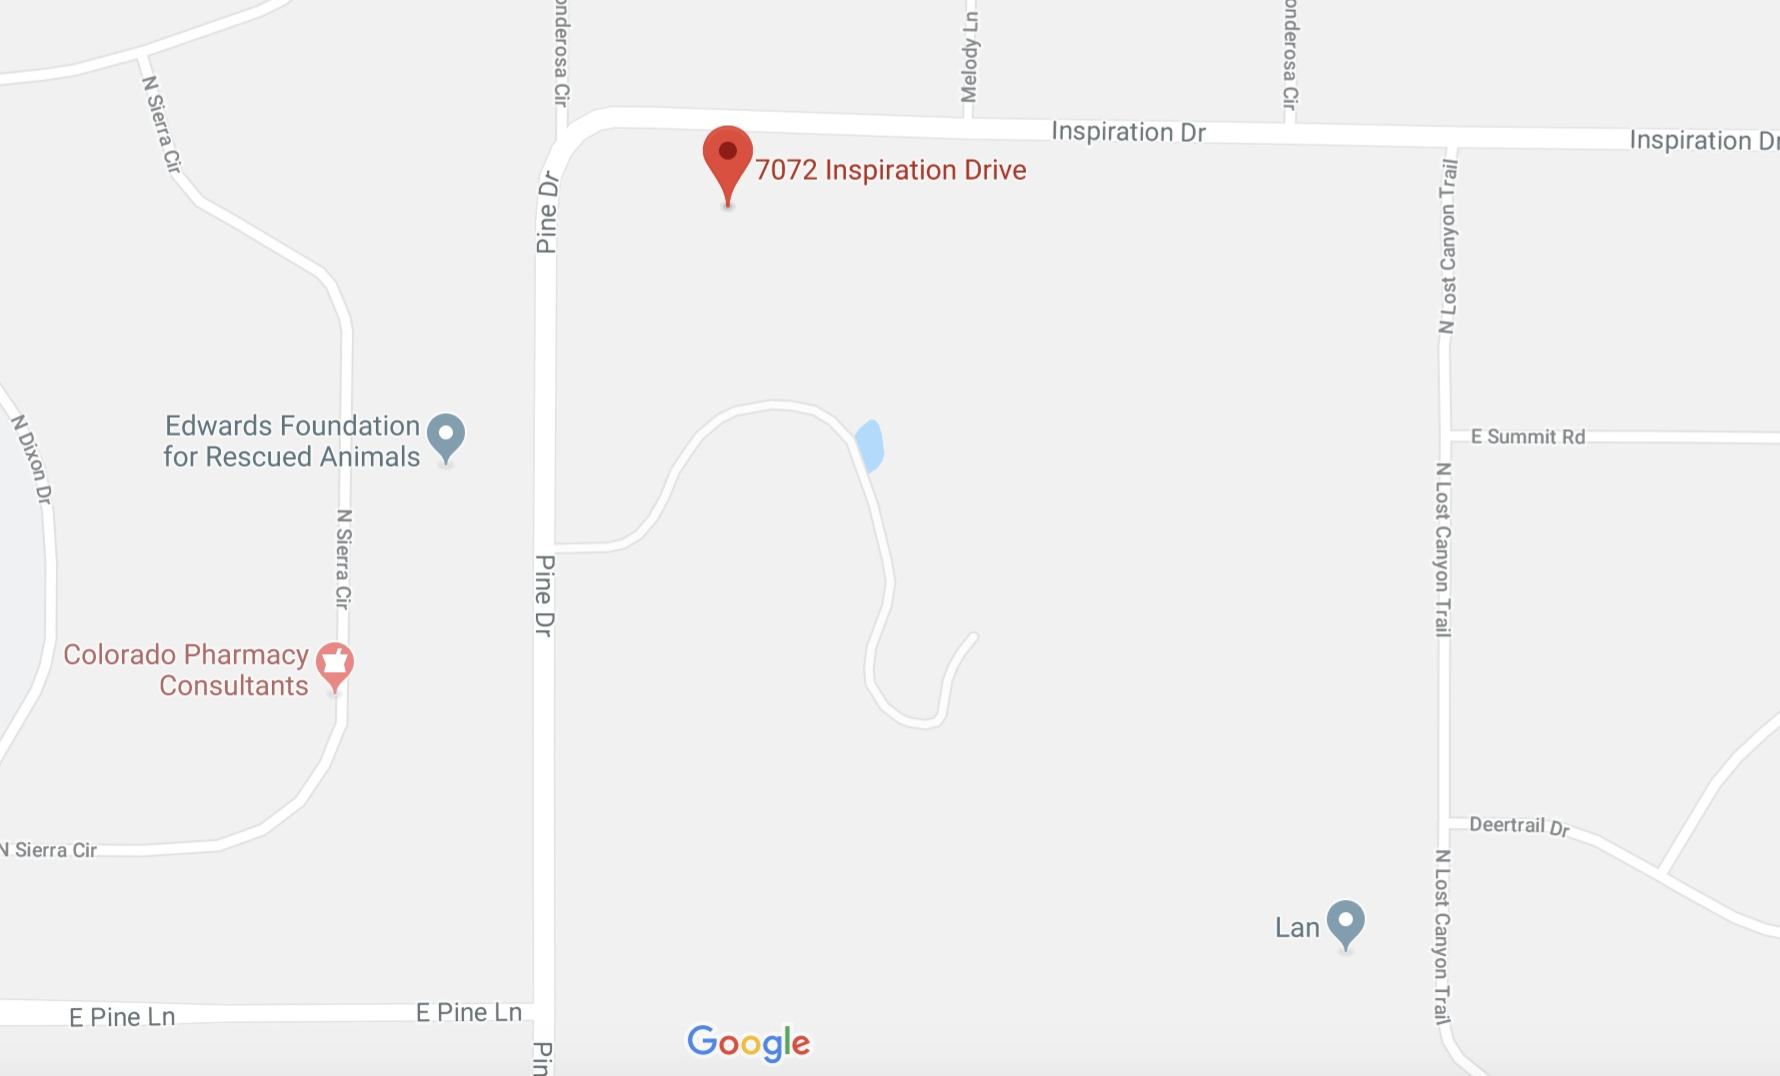
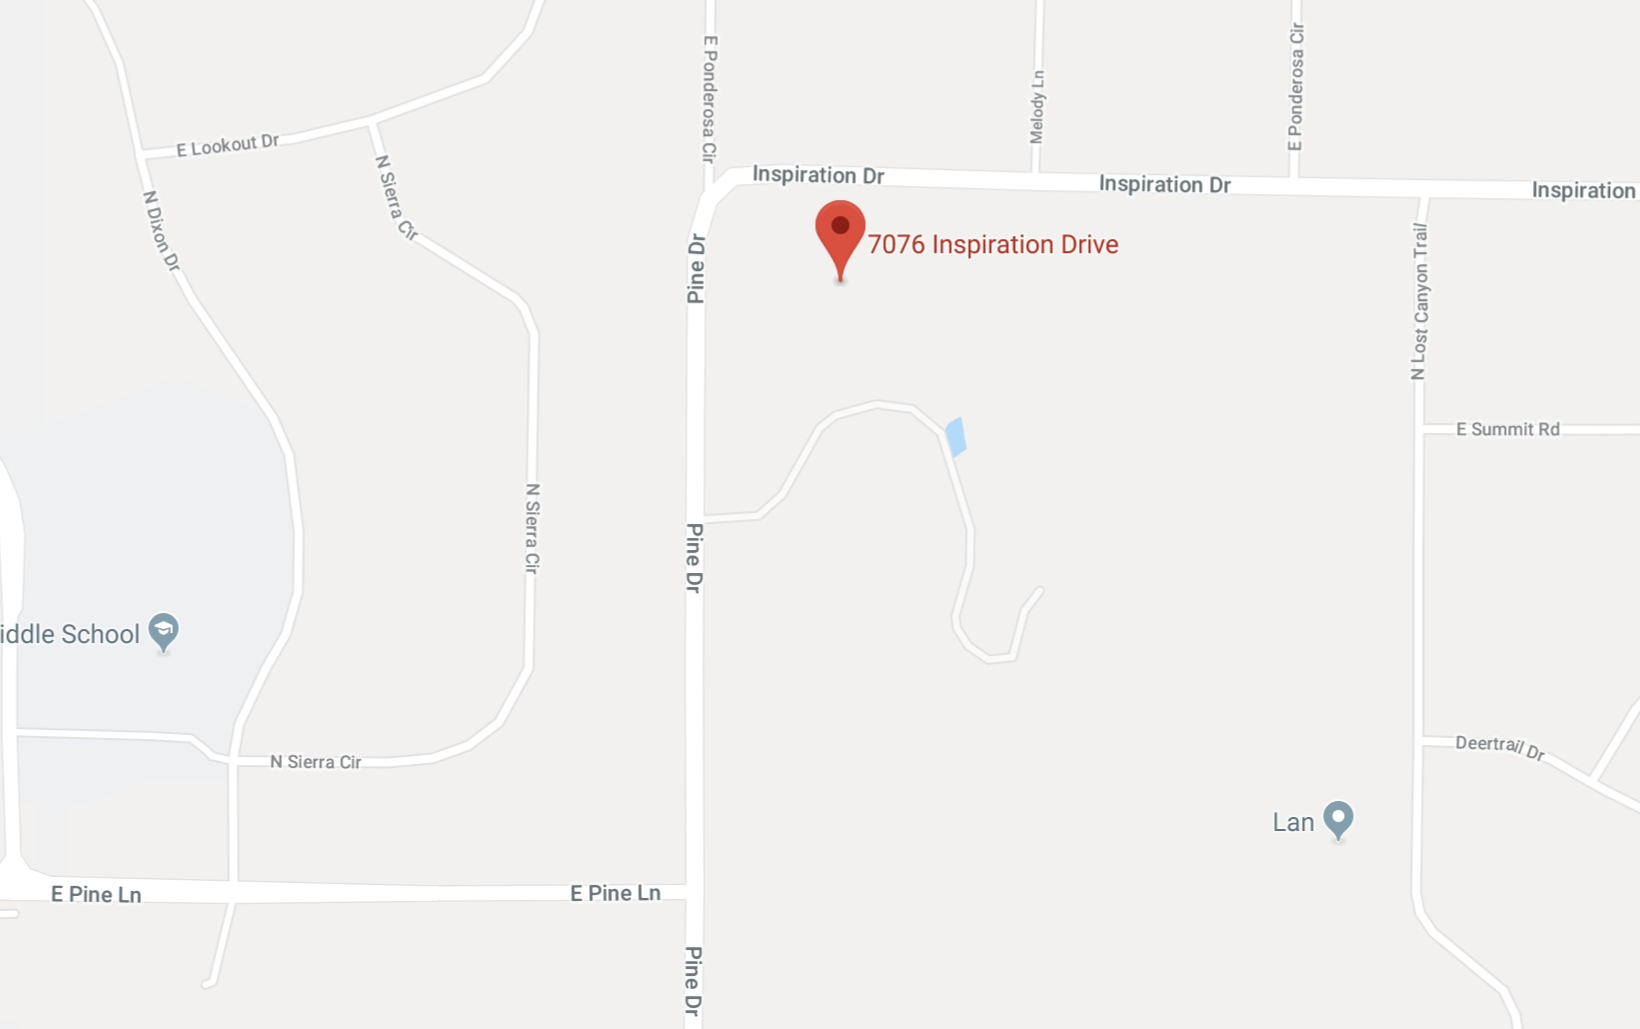
small error

diff --git a/src/App.vue b/src/App.vue
@@ -431,7 +431,7 @@
       </b-row>
       <br>
       <b-col>
-        <b-button href="https://goo.gl/maps/Z1rPTTPsEtYNHSfq8" target="_blank" class="locationButton">
+        <b-button href="https://goo.gl/maps/JT9FYyMPVmN2pfQT9" target="_blank" class="locationButton">
           <h4 class="locationText">7076A Inspiration Drive Parker, CO 80138</h4>
         </b-button>
       </b-col>
